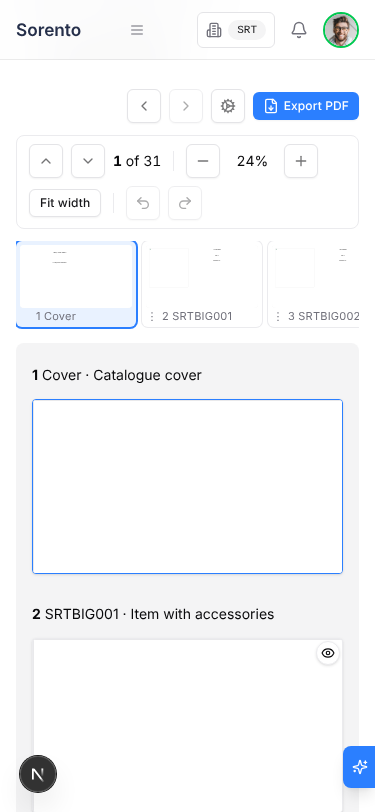
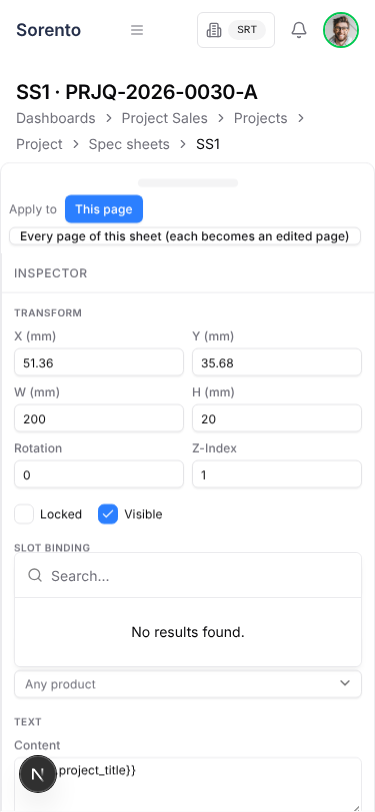
SPEC-SHEET-V2: WIP round 7f (phone drawer)
Claude-Session: https://claude.ai/code/session_01EKXEHgaiMxyAbtPARZjDYS

diff --git a/sorento_crm_frontend/app/(protected)/project-sales/[projectId]/quotation-documents/[documentId]/spec-sheet/[sheetId]/components/SpecSheetReader.inline.test.tsx b/sorento_crm_frontend/app/(protected)/project-sales/[projectId]/quotation-documents/[documentId]/spec-sheet/[sheetId]/components/SpecSheetReader.inline.test.tsx
@@ -668,17 +668,24 @@ describe('thumbnail rail', () => {
 });
 
 describe('phone', () => {
-  it('opens the inspector in a bottom sheet and keeps the live canvas editable', async () => {
+  it('selecting leaves the canvas free; Properties opens a compact sheet on demand', async () => {
     mobile = true;
     renderReader();
     await screen.findByTestId('spec-page-k29');
     report(['k1', 'k2']);
     const canvas = await screen.findByTestId('live-canvas-k1');
     expect(canvas).toHaveAttribute('data-readonly', 'no');
+    expect(screen.queryByRole('button', { name: 'Properties' })).toBeNull();
 
     fireEvent.click(within(canvas).getByText('select k1'));
 
+    // The sheet stays shut, so it cannot cover the layer just picked.
+    const button = await screen.findByRole('button', { name: 'Properties' });
+    expect(screen.queryByRole('dialog')).toBeNull();
+
+    fireEvent.click(button);
     const dialog = await screen.findByRole('dialog');
+    expect(dialog.className).toContain('max-h-[45dvh]');
     expect(within(dialog).getByTestId('inspector')).toHaveAttribute(
       'data-layer',
       'logo',
